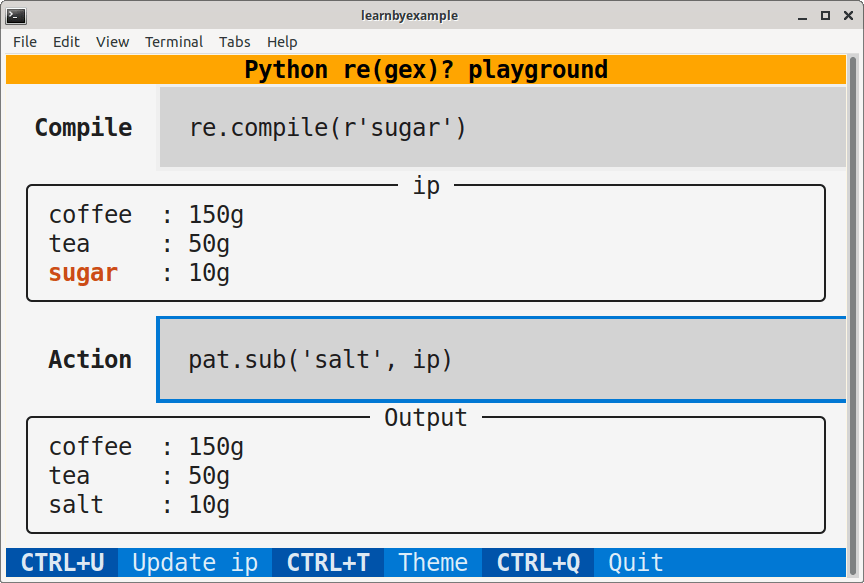
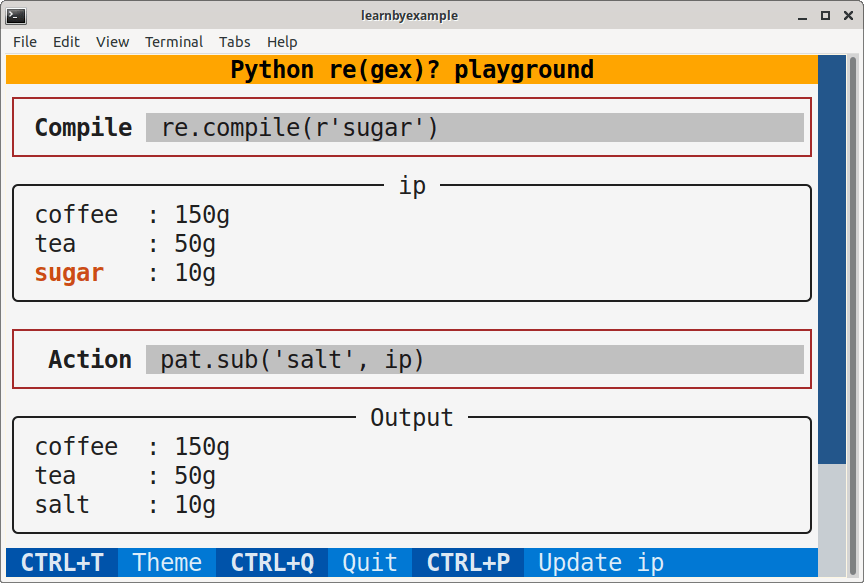
updates for version 4.1

diff --git a/py_regex.md b/py_regex.md
@@ -65,7 +65,7 @@ Resources mentioned in Acknowledgements section above are available under origin
 
 ## Book version
 
-4.0
+4.1
 
 See [Version_changes.md](https://github.com/learnbyexample/py_regular_expressions/blob/master/Version_changes.md) to track changes across book versions.
 
@@ -312,7 +312,7 @@ False
 
 ## re(gex)? playground
 
-To make it easier to experiment, I'm working on an interactive app. See [PyRegexPlayground](https://github.com/learnbyexample/TUI-apps/tree/main/PyRegexPlayground) repo for installation instructions and usage guide. A sample screenshot is shown below:
+To make it easier to experiment, I wrote an interactive TUI app. See [PyRegexPlayground](https://github.com/learnbyexample/TUI-apps/tree/main/PyRegexPlayground) repo for installation instructions and usage guide. A sample screenshot is shown below:
 
 ![Python re(gex)? playground](images/pyregex_playground.png)
 
@@ -749,7 +749,7 @@ False
 **c)** For the given input list, filter all elements that contain `42` surrounded by word characters.
 
 ```ruby
->>> words = ['hi42bye', 'nice1423', 'bad42', 'cool_42a', 'fake42', '_42_']
+>>> words = ['hi42bye', 'nice1423', 'bad42', 'cool_42a', '42fake', '_42_']
 
 >>> [w for w in words if re.search()]   ##### add your solution here
 ['hi42bye', 'nice1423', 'cool_42a', '_42_']
@@ -1891,19 +1891,23 @@ The below image is a screenshot from this link — [debuggex: `r'\bpar(en|ro)?t\
 
 ## re(gex)? playground
 
-As already mentioned in the introduction chapter, I'm also working on an interactive app. See [PyRegexPlayground](https://github.com/learnbyexample/TUI-apps/tree/main/PyRegexPlayground) repo for installation instructions and usage guide.
+As already mentioned in the introduction chapter, I wrote an interactive TUI app for interactive practice. See [PyRegexPlayground](https://github.com/learnbyexample/TUI-apps/tree/main/PyRegexPlayground) repo for installation instructions and usage guide.
+
+## re(gex)? exercises
+
+I wrote another TUI app to help you solve exercises from this book interactively. See [PyRegexExercises](https://github.com/learnbyexample/TUI-apps/tree/main/PyRegexExercises) repo for installation steps and [app_guide.md](https://github.com/learnbyexample/TUI-apps/blob/main/PyRegexExercises/app_guide.md) for instructions on using this app.
+
+Here's a sample screenshot:
+
+![PyRegexExercises example](images/pyregex_exercises.png)
 
 ## regexcrossword
 
 For practice, [regexcrossword](https://regexcrossword.com/) is often recommended. It only supports JavaScript, so some of the puzzles may not work the same with Python syntax. See [regexcrossword: howtoplay](https://regexcrossword.com/howtoplay) for help.
 
-The below image is a screenshot from this link — [regexcrossword: tutorial puzzle 5](https://regexcrossword.com/challenges/tutorial/puzzles/5)
-
-![regexcrossword example](images/regexcrossword.png)
-
 ## Summary
 
-This chapter briefly presented three online tools that can help you with understanding and interactively solving/debugging regular expressions. Syntax and features can vary, sometimes significantly, between various tools and programming languages. So, ensure that the program you are using supports the flavor of regular expressions you are using.
+This chapter briefly presented tools that can help you with understanding and interactively solving/debugging regular expressions. Syntax and features can vary, sometimes significantly, between various tools and programming languages. So, ensure that the program you are using supports the flavor of regular expressions you are using.
 
 # Working with matched portions
 

diff --git a/exercises/Exercise_solutions.md b/exercises/Exercise_solutions.md
@@ -150,7 +150,7 @@ False
 **c)** For the given input list, filter all elements that contain `42` surrounded by word characters.
 
 ```ruby
->>> words = ['hi42bye', 'nice1423', 'bad42', 'cool_42a', 'fake42', '_42_']
+>>> words = ['hi42bye', 'nice1423', 'bad42', 'cool_42a', '42fake', '_42_']
 
 >>> [w for w in words if re.search(r'\B42\B', w)]
 ['hi42bye', 'nice1423', 'cool_42a', '_42_']
@@ -1308,7 +1308,7 @@ took 22
 ```ruby
 >>> ip = '12 ab32.4 go 5 2. 46.42 5'
 
->>> re.findall(r'\d+(?=\.\d+)', ip)
+>>> re.findall(r'\d+(?=\.\d)', ip)
 ['32', '46']
 ```
 
@@ -1744,6 +1744,7 @@ Refer to the [exercises folder](https://github.com/learnbyexample/py_regular_exp
 >>> s1 = 'Sample123string42with777numbers'
 >>> s2 = '12apples'
 
+# can also use: r'(?:.*\D)?\K(\d+)'
 # r'(\d+)(?!.*\d)' is an alternate solution that'll also work with 're' module
 >>> pat = regex.compile(r'.*\K(?<!\d)(\d+)')
 

diff --git a/exercises/Exercises.md b/exercises/Exercises.md
@@ -154,7 +154,7 @@ False
 **c)** For the given input list, filter all elements that contain `42` surrounded by word characters.
 
 ```ruby
->>> words = ['hi42bye', 'nice1423', 'bad42', 'cool_42a', 'fake42', '_42_']
+>>> words = ['hi42bye', 'nice1423', 'bad42', 'cool_42a', '42fake', '_42_']
 
 >>> [w for w in words if re.search()]   ##### add your solution here
 ['hi42bye', 'nice1423', 'cool_42a', '_42_']

diff --git a/Version_changes.md b/Version_changes.md
@@ -1,5 +1,14 @@
 <br>
 
+### 4.1
+
+* Updated details for **re(gex)? playground** app
+* Added section for **re(gex)? exercises** app
+* Better sample input for one of the exercises
+* Corrected one of the exercise solutions and added alternate solution for another exercise
+
+<br>
+
 ### 4.0
 
 * Python version updated to 3.11
